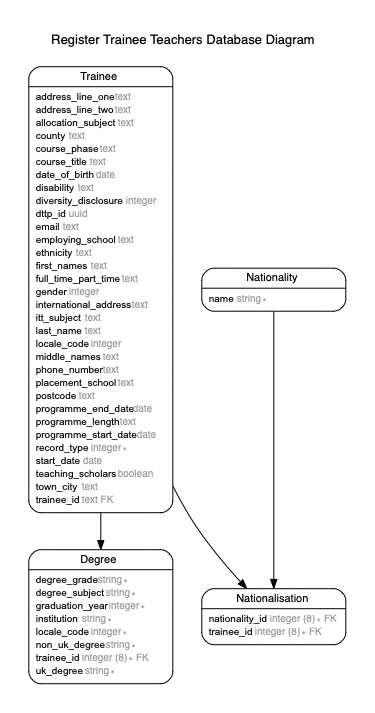
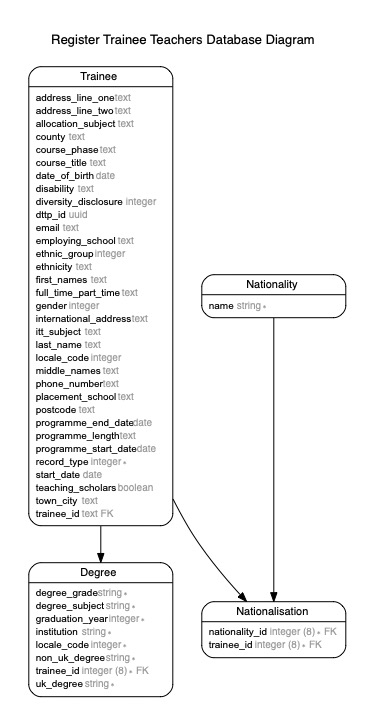
[296] Implement ethnic group page

diff --git a/spec/features/trainees/diversities/edit_ethnic_group_spec.rb b/spec/features/trainees/diversities/edit_ethnic_group_spec.rb
@@ -1,0 +1,52 @@
+require "rails_helper"
+
+feature "edit ethnic group", type: :feature do
+  scenario "edit with valid parameters" do
+    given_a_trainee_exists
+    when_i_visit_the_diversity_ethnic_group_page
+    and_i_enter_valid_parameters
+    and_i_submit_the_form
+    then_i_am_redirected_to_the_summary_page
+    and_the_diversity_ethnic_group_is_updated
+  end
+
+  scenario "edit with invalid parameters" do
+    given_a_trainee_exists
+    when_i_visit_the_diversity_ethnic_group_page
+    and_i_submit_the_form
+    then_i_see_error_messages
+  end
+
+  def given_a_trainee_exists
+    @trainee = create(:trainee, ethnic_group: nil)
+  end
+
+  def when_i_visit_the_diversity_ethnic_group_page
+    @ethnic_group_page ||= PageObjects::Trainees::Diversities::EthnicGroup.new
+    @ethnic_group_page.load(id: @trainee.id)
+  end
+
+  def and_i_enter_valid_parameters
+    @ethnic_group_page.asian.choose
+  end
+
+  def and_i_submit_the_form
+    @ethnic_group_page.submit_button.click
+  end
+
+  def then_i_am_redirected_to_the_summary_page
+    @summary_page ||= PageObjects::Trainees::Summary.new
+    expect(@summary_page).to be_displayed(id: @trainee.id)
+  end
+
+  def and_the_diversity_ethnic_group_is_updated
+    when_i_visit_the_diversity_ethnic_group_page
+    expect(@ethnic_group_page.asian).to be_checked
+  end
+
+  def then_i_see_error_messages
+    expect(page).to have_content(
+      I18n.t("activemodel.errors.models.diversities/ethnic_group.attributes.ethnic_group.blank"),
+    )
+  end
+end

diff --git a/spec/services/diversities/ethnic_groups/update_spec.rb b/spec/services/diversities/ethnic_groups/update_spec.rb
@@ -1,0 +1,42 @@
+require "rails_helper"
+
+module Diversities
+  module EthnicGroups
+    describe Update do
+      describe ".call" do
+        let(:trainee) { create(:trainee, ethnic_group: nil) }
+        let(:service) { described_class.new(trainee: trainee, attributes: attributes) }
+
+        before(:each) do
+          service.call
+          trainee.reload
+        end
+
+        context "when ethnic group attribute is valid" do
+          let(:attributes) { { ethnic_group: Trainee.ethnic_groups.keys.sample } }
+
+          it "updates the trainee's ethnic group details" do
+            expect(trainee.ethnic_group).to be_truthy
+            expect(trainee.ethnic_group).to eq(attributes[:ethnic_group])
+          end
+
+          it "is successful" do
+            expect(service).to be_successful
+          end
+        end
+
+        context "when ethnic group attribute is invalid" do
+          let(:attributes) { { ethnic_group: nil } }
+
+          it "does not update the trainee's ethnic group details" do
+            expect(trainee.ethnic_group).to be_falsey
+          end
+
+          it "is unsuccessful" do
+            expect(service).to_not be_successful
+          end
+        end
+      end
+    end
+  end
+end

diff --git a/spec/features/trainees/diversities/edit_disclosure_spec.rb b/spec/features/trainees/diversities/edit_disclosure_spec.rb
@@ -6,7 +6,7 @@ feature "edit diversity disclosure", type: :feature do
     when_i_visit_the_diversity_disclosure_page
     and_i_enter_valid_parameters
     and_i_submit_the_form
-    then_i_am_redirected_to_the_summary_page
+    then_i_am_redirected_to_the_ethnic_group_page
     and_the_diversity_disclosure_is_updated
   end
 
@@ -34,14 +34,13 @@ feature "edit diversity disclosure", type: :feature do
     @disclosure_page.submit_button.click
   end
 
-  def then_i_am_redirected_to_the_summary_page
-    @summary_page ||= PageObjects::Trainees::Summary.new
-    expect(@summary_page).to be_displayed(id: @trainee.id)
+  def then_i_am_redirected_to_the_ethnic_group_page
+    @ethnic_group ||= PageObjects::Trainees::Diversities::EthnicGroup.new
+    expect(@ethnic_group).to be_displayed(id: @trainee.id)
   end
 
   def and_the_diversity_disclosure_is_updated
-    when_i_visit_the_diversity_disclosure_page
-    expect(@disclosure_page.yes).to be_checked
+    expect(@trainee.reload.diversity_disclosure).to be_truthy
   end
 
   def then_i_see_error_messages

diff --git a/db/schema.rb b/db/schema.rb
@@ -10,7 +10,7 @@
 #
 # It's strongly recommended that you check this file into your version control system.
 
-ActiveRecord::Schema.define(version: 2020_10_20_161603) do
+ActiveRecord::Schema.define(version: 2020_10_21_111753) do
 
   # These are extensions that must be enabled in order to support this database
   enable_extension "plpgsql"
@@ -81,8 +81,10 @@ ActiveRecord::Schema.define(version: 2020_10_20_161603) do
     t.integer "locale_code"
     t.integer "gender"
     t.integer "diversity_disclosure"
+    t.integer "ethnic_group"
     t.index ["diversity_disclosure"], name: "index_trainees_on_diversity_disclosure"
     t.index ["dttp_id"], name: "index_trainees_on_dttp_id"
+    t.index ["ethnic_group"], name: "index_trainees_on_ethnic_group"
     t.index ["gender"], name: "index_trainees_on_gender"
     t.index ["locale_code"], name: "index_trainees_on_locale_code"
     t.index ["record_type"], name: "index_trainees_on_record_type"

diff --git a/app/controllers/trainees/diversity/ethnic_groups_controller.rb b/app/controllers/trainees/diversity/ethnic_groups_controller.rb
@@ -1,0 +1,32 @@
+module Trainees
+  module Diversity
+    class EthnicGroupsController < ApplicationController
+      def edit
+        @ethnic_group = Diversities::EthnicGroup.new(trainee: trainee)
+      end
+
+      def update
+        updater = Diversities::EthnicGroups::Update.call(trainee: trainee, attributes: ethnic_group_param)
+
+        if updater.successful?
+          redirect_to(trainee_path(updater.ethnic_group.trainee))
+        else
+          @ethnic_group = updater.ethnic_group
+          render :edit
+        end
+      end
+
+    private
+
+      def trainee
+        @trainee ||= Trainee.find(params[:trainee_id])
+      end
+
+      def ethnic_group_param
+        return { ethnic_group: nil } if params[:diversities_ethnic_group].blank?
+
+        params.require(:diversities_ethnic_group).permit(:ethnic_group)
+      end
+    end
+  end
+end

diff --git a/spec/support/page_objects/trainees/diversities/ethnic_group.rb b/spec/support/page_objects/trainees/diversities/ethnic_group.rb
@@ -1,0 +1,16 @@
+module PageObjects
+  module Trainees
+    module Diversities
+      class EthnicGroup < PageObjects::Base
+        set_url "/trainees/{id}/diversity/ethnic-group/edit"
+        element :asian, "#diversities-ethnic-group-ethnic-group-asian-field"
+        element :black, "#diversities-ethnic-group-ethnic-group-black-field"
+        element :mixed, "#diversities-ethnic-group-ethnic-group-mixed-field"
+        element :white, "#diversities-ethnic-group-ethnic-group-white-field"
+        element :another, "#diversities-ethnic-group-ethnic-group-other-ethnic-group-field"
+        element :not_provided, "#diversities-ethnic-group-ethnic-group-no-ethnicity-provided-field"
+        element :submit_button, "input[name='commit']"
+      end
+    end
+  end
+end

diff --git a/app/services/diversities/ethnic_groups/update.rb b/app/services/diversities/ethnic_groups/update.rb
@@ -1,0 +1,26 @@
+module Diversities
+  module EthnicGroups
+    class Update
+      attr_reader :trainee, :ethnic_group, :successful
+
+      alias_method :successful?, :successful
+
+      class << self
+        def call(...)
+          new(...).call
+        end
+      end
+
+      def initialize(trainee:, attributes: {})
+        @trainee = trainee
+        trainee.assign_attributes(attributes)
+        @ethnic_group = Diversities::EthnicGroup.new(trainee: trainee)
+      end
+
+      def call
+        @successful = ethnic_group.valid? && trainee.save!
+        self
+      end
+    end
+  end
+end

diff --git a/spec/models/trainee_spec.rb b/spec/models/trainee_spec.rb
@@ -8,6 +8,17 @@ describe Trainee do
     it { is_expected.to define_enum_for(:locale_code).with_values(uk: 0, non_uk: 1) }
     it { is_expected.to define_enum_for(:gender).with_values(male: 0, female: 1, other: 2) }
     it { is_expected.to define_enum_for(:diversity_disclosure).with_values(yes: 0, no: 1) }
+
+    it do
+      is_expected.to define_enum_for(:ethnic_group).with_values(
+        asian: 0,
+        black: 1,
+        mixed: 2,
+        white: 3,
+        other_ethnic_group: 4,
+        no_ethnicity_provided: 5,
+      )
+    end
   end
 
   context "associations" do

diff --git a/app/models/trainee.rb b/app/models/trainee.rb
@@ -6,6 +6,14 @@ class Trainee < ApplicationRecord
   enum locale_code: { uk: 0, non_uk: 1 }
   enum diversity_disclosure: { yes: 0, no: 1 }
   enum gender: { male: 0, female: 1, other: 2 }
+  enum ethnic_group: {
+    asian: 0,
+    black: 1,
+    mixed: 2,
+    white: 3,
+    other_ethnic_group: 4,
+    no_ethnicity_provided: 5,
+  }
 
   has_many :degrees, dependent: :destroy
   has_many :nationalisations, dependent: :destroy, inverse_of: :trainee

diff --git a/app/controllers/trainees/diversity/disclosures_controller.rb b/app/controllers/trainees/diversity/disclosures_controller.rb
@@ -9,7 +9,7 @@ module Trainees
         updater = Diversities::Disclosures::Update.call(trainee: trainee, attributes: disclosure_param)
 
         if updater.successful?
-          redirect_to(trainee_path(updater.disclosure.trainee))
+          redirect_to(edit_trainee_diversity_ethnic_group_path(updater.disclosure.trainee))
         else
           @disclosure = updater.disclosure
           render :edit

diff --git a/spec/models/diversities/ethnic_group_spec.rb b/spec/models/diversities/ethnic_group_spec.rb
@@ -1,0 +1,14 @@
+require "rails_helper"
+
+module Diversities
+  describe EthnicGroup do
+    let(:trainee) { build(:trainee) }
+
+    subject { described_class.new(trainee: trainee) }
+
+    describe "validations" do
+      it { is_expected.to validate_presence_of(:ethnic_group) }
+      it { is_expected.to validate_inclusion_of(:ethnic_group).in_array(Trainee.ethnic_groups.keys) }
+    end
+  end
+end

diff --git a/app/models/diversities/ethnic_group.rb b/app/models/diversities/ethnic_group.rb
@@ -1,0 +1,15 @@
+module Diversities
+  class EthnicGroup
+    include ActiveModel::Model
+    attr_accessor :trainee, :ethnic_group
+
+    validates :ethnic_group, presence: true, inclusion: { in: Trainee.ethnic_groups.keys }
+
+    delegate :id, :persisted?, to: :trainee
+
+    def initialize(trainee:)
+      @trainee = trainee
+      super(ethnic_group: trainee.ethnic_group)
+    end
+  end
+end
